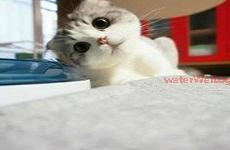
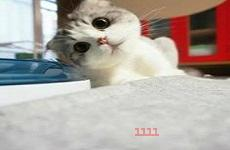
图片水印完成,语言设置（未完成）--pqb

Changed region(s): [[0.7, 0.48, 1.0, 0.5867], [0.5783, 0.8533, 0.7, 0.9067]]

diff --git a/vweibo/src/main/webapp/front/js/jquery.localize.js b/vweibo/src/main/webapp/front/js/jquery.localize.js
@@ -1,0 +1,186 @@
+
+/*
+Copyright (c) Jim Garvin (http://github.com/coderifous), 2008.
+Dual licensed under the GPL (http://dev.jquery.com/browser/trunk/jquery/GPL-LICENSE.txt) and MIT (http://dev.jquery.com/browser/trunk/jquery/MIT-LICENSE.txt) licenses.
+Written by Jim Garvin (@coderifous) for use on LMGTFY.com.
+http://github.com/coderifous/jquery-localize
+Based off of Keith Wood's Localisation jQuery plugin.
+http://keith-wood.name/localisation.html
+ */
+(function($) {
+  var normaliseLang;
+  normaliseLang = function(lang) {
+    lang = lang.replace(/_/, '-').toLowerCase();
+    if (lang.length > 3) {
+      lang = lang.substring(0, 3) + lang.substring(3).toUpperCase();
+    }
+    return lang;
+  };
+  $.defaultLanguage = normaliseLang(navigator.languages ? navigator.languages[0] : navigator.language || navigator.userLanguage);
+  $.localize = function(pkg, options) {
+    var defaultCallback, fileExtension, intermediateLangData, jsonCall, lang, loadLanguage, localizeElement, localizeForSpecialKeys, localizeImageElement, localizeInputElement, localizeOptgroupElement, notifyDelegateLanguageLoaded, regexify, setAttrFromValueForKey, setTextFromValueForKey, valueForKey, wrappedSet;
+    if (options == null) {
+      options = {};
+    }
+    wrappedSet = this;
+    intermediateLangData = {};
+    fileExtension = options.fileExtension || "json";
+    loadLanguage = function(pkg, lang, level) {
+      var file;
+      if (level == null) {
+        level = 1;
+      }
+      switch (level) {
+        case 1:
+          intermediateLangData = {};
+          if (options.loadBase) {
+            file = pkg + ("." + fileExtension);
+            return jsonCall(file, pkg, lang, level);
+          } else {
+            return loadLanguage(pkg, lang, 2);
+          }
+          break;
+        case 2:
+          file = "" + pkg + "-" + (lang.split('-')[0]) + "." + fileExtension;
+          return jsonCall(file, pkg, lang, level);
+        case 3:
+          file = "" + pkg + "-" + (lang.split('-').slice(0, 2).join('-')) + "." + fileExtension;
+          return jsonCall(file, pkg, lang, level);
+      }
+    };
+    jsonCall = function(file, pkg, lang, level) {
+      var ajaxOptions, errorFunc, successFunc;
+      if (options.pathPrefix != null) {
+        file = "" + options.pathPrefix + "/" + file;
+      }
+      successFunc = function(d) {
+        $.extend(intermediateLangData, d);
+        notifyDelegateLanguageLoaded(intermediateLangData);
+        return loadLanguage(pkg, lang, level + 1);
+      };
+      errorFunc = function() {
+        if (options.fallback && options.fallback !== lang) {
+          return loadLanguage(pkg, options.fallback);
+        }
+      };
+      ajaxOptions = {
+        url: file,
+        dataType: "json",
+        async: false,
+        timeout: options.timeout != null ? options.timeout : 500,
+        success: successFunc,
+        error: errorFunc
+      };
+      if (window.location.protocol === "file:") {
+        ajaxOptions.error = function(xhr) {
+          return successFunc($.parseJSON(xhr.responseText));
+        };
+      }
+      return $.ajax(ajaxOptions);
+    };
+    notifyDelegateLanguageLoaded = function(data) {
+      if (options.callback != null) {
+        return options.callback(data, defaultCallback);
+      } else {
+        return defaultCallback(data);
+      }
+    };
+    defaultCallback = function(data) {
+      $.localize.data[pkg] = data;
+      return wrappedSet.each(function() {
+        var elem, key, value;
+        elem = $(this);
+        key = elem.data("localize");
+        key || (key = elem.attr("rel").match(/localize\[(.*?)\]/)[1]);
+        value = valueForKey(key, data);
+        if (value != null) {
+          return localizeElement(elem, key, value);
+        }
+      });
+    };
+    localizeElement = function(elem, key, value) {
+      if (elem.is('input')) {
+        localizeInputElement(elem, key, value);
+      } else if (elem.is('textarea')) {
+        localizeInputElement(elem, key, value);
+      } else if (elem.is('img')) {
+        localizeImageElement(elem, key, value);
+      } else if (elem.is('optgroup')) {
+        localizeOptgroupElement(elem, key, value);
+      } else if (!$.isPlainObject(value)) {
+        elem.html(value);
+      }
+      if ($.isPlainObject(value)) {
+        return localizeForSpecialKeys(elem, value);
+      }
+    };
+    localizeInputElement = function(elem, key, value) {
+      var val;
+      val = $.isPlainObject(value) ? value.value : value;
+      if (elem.is("[placeholder]")) {
+        return elem.attr("placeholder", val);
+      } else {
+        return elem.val(val);
+      }
+    };
+    localizeForSpecialKeys = function(elem, value) {
+      setAttrFromValueForKey(elem, "title", value);
+      setAttrFromValueForKey(elem, "href", value);
+      return setTextFromValueForKey(elem, "text", value);
+    };
+    localizeOptgroupElement = function(elem, key, value) {
+      return elem.attr("label", value);
+    };
+    localizeImageElement = function(elem, key, value) {
+      setAttrFromValueForKey(elem, "alt", value);
+      return setAttrFromValueForKey(elem, "src", value);
+    };
+    valueForKey = function(key, data) {
+      var keys, value, _i, _len;
+      keys = key.split(/\./);
+      value = data;
+      for (_i = 0, _len = keys.length; _i < _len; _i++) {
+        key = keys[_i];
+        value = value != null ? value[key] : null;
+      }
+      return value;
+    };
+    setAttrFromValueForKey = function(elem, key, value) {
+      value = valueForKey(key, value);
+      if (value != null) {
+        return elem.attr(key, value);
+      }
+    };
+    setTextFromValueForKey = function(elem, key, value) {
+      value = valueForKey(key, value);
+      if (value != null) {
+        return elem.text(value);
+      }
+    };
+    regexify = function(string_or_regex_or_array) {
+      var thing;
+      if (typeof string_or_regex_or_array === "string") {
+        return "^" + string_or_regex_or_array + "$";
+      } else if (string_or_regex_or_array.length != null) {
+        return ((function() {
+          var _i, _len, _results;
+          _results = [];
+          for (_i = 0, _len = string_or_regex_or_array.length; _i < _len; _i++) {
+            thing = string_or_regex_or_array[_i];
+            _results.push(regexify(thing));
+          }
+          return _results;
+        })()).join("|");
+      } else {
+        return string_or_regex_or_array;
+      }
+    };
+    lang = normaliseLang(options.language ? options.language : $.defaultLanguage);
+    if (!(options.skipLanguage && lang.match(regexify(options.skipLanguage)))) {
+      loadLanguage(pkg, lang, 1);
+    }
+    return wrappedSet;
+  };
+  $.fn.localize = $.localize;
+  return $.localize.data = {};
+})(jQuery);

diff --git a/vweibo/src/main/java/com/yc/weibo/handler/UserHandler.java b/vweibo/src/main/java/com/yc/weibo/handler/UserHandler.java
@@ -15,8 +15,6 @@ import javax.mail.MessagingException;
 import javax.mail.internet.MimeMessage;
 import javax.servlet.ServletContext;
 import javax.servlet.http.HttpServletRequest;
-import javax.servlet.http.HttpServletResponse;
-
 import org.springframework.beans.factory.annotation.Autowired;
 import org.springframework.mail.javamail.JavaMailSender;
 import org.springframework.mail.javamail.MimeMessageHelper;
@@ -161,7 +159,7 @@ public class UserHandler {
 
 	//上传头像
 	@RequestMapping("/setphoto")
-	public String setPhoto(@RequestParam("photodata") String file,@RequestParam("WBUid")String WBUid,PrintWriter out){
+	public void setPhoto(@RequestParam("photodata") String file,@RequestParam("WBUid")String WBUid,PrintWriter out){
 		BASE64Decoder decoder = new BASE64Decoder();
 		byte[] bytes;
 		try {
@@ -179,7 +177,7 @@ public class UserHandler {
 			FileOutputStream photopath = new FileOutputStream(uploadPicPath+filename);
 			photopath.write(bytes); 
 			Map<String,String> paramMap=new HashMap<>();
-			paramMap.put("UimgPath", uploadPicPath+filename);
+			paramMap.put("UimgPath", filename);
 			paramMap.put("WBUid", WBUid);
 			userService.updataUserPhoto(paramMap);
 			out.println("头像上传成功");
@@ -191,8 +189,6 @@ public class UserHandler {
 			out.flush();
 			out.close();
 		}
-
-		return null;
 	}
 
 
@@ -281,48 +277,44 @@ public class UserHandler {
 	//图片水印
 	@ResponseBody
 	@RequestMapping(value="/addWaterMark")
-	public void addWaterMark(String waterContent,String waterLocation,String WBUid,PrintWriter out,HttpServletResponse response){
+	public void addWaterMark(String waterContent,String waterLocation,String WBUid,PrintWriter out){
 		System.out.println(waterContent+"---"+waterLocation+"----"+WBUid);
-		response.setHeader("Cache-Control", "no-cache");
-		File file=new File("G:\\GitWork\\WeiBo\\weiboRepository\\vweibo\\src\\main\\webapp\\front\\image\\UserSet_image\\test_pic.jpg");
+		String rootDir = DataDic.PICPATH;
+		String waterMarkPicPath = servletContext.getRealPath(rootDir).
+				substring(0, servletContext.getRealPath(rootDir).lastIndexOf(DataDic.PROJECTNAME)-1)+rootDir; 
+		File file=new File(waterMarkPicPath+"test_pic.jpg");
 		String txt=waterContent;
-		String realPath="G:\\GitWork\\WeiBo\\weiboRepository\\vweibo\\src\\main\\webapp\\front\\image\\UserSet_image\\test_pic1.jpg";
+		String realPath=waterMarkPicPath+"test_pic1.jpg";
 		double x,y;
 		if(waterContent!=null || waterContent!=""){
 			if(!waterContent.contains("Logo")){//文字水印
 				if(waterLocation.equals("bottomRight")){//底部居右
 					x=1.7;
 					y=1.1;
-					ImageMarkLogoByIcon.pressText(file, txt, realPath, x, y);
 				}else if(waterLocation.equals("centerCenter")){//图片中心
 					x=2.8;
 					y=2.0;
-					ImageMarkLogoByIcon.pressText(file, txt, realPath, x, y);
 				}else{//底部居中
 					x=2.8;
 					y=1.1;
-					ImageMarkLogoByIcon.pressText(file, txt, realPath, x, y);
 				}
+				ImageMarkLogoByIcon.pressText(file, txt, realPath, x, y);
 				System.out.println("------------转换成功");
 			}else{//logo水印
-				String iconPath="G:\\GitWork\\WeiBo\\weiboRepository\\vweibo\\src\\main\\webapp\\front\\image\\head_logo_sh_mini.png";
+				String iconPath=waterMarkPicPath+"head_logo_sh_mini.png";
 				if(waterLocation.equals("bottomRight")){//底部居右
-					x=1.4;
-					y=1.8;
-					ImageMarkLogoByIcon.markImageByIcon(iconPath, file.toString(), realPath, x, y);
+					x=1.3;
+					y=1.4;
 				}else if(waterLocation.equals("centerCenter")){//图片中心
-					x=2.8;
-					y=2.0;
-					ImageMarkLogoByIcon.markImageByIcon(iconPath, file.toString(), realPath, x, y);
+					x=2.2;
+					y=3.7;
 				}else{//底部居中
-					x=2.8;
-					y=1.1;
-					ImageMarkLogoByIcon.markImageByIcon(iconPath, file.toString(), realPath, x, y);
+					x=2.2;
+					y=1.4;
 				}
-				
+				ImageMarkLogoByIcon.markImageByIcon(iconPath, waterMarkPicPath+"test_pic.jpg", realPath, x, y);
 				System.out.println("------------转换成功");
 			}
-			ImageMarkLogoByIcon.pressText(file, txt, realPath, x, y);
 			out.println("设置成功");
 			
 		}

diff --git a/vweibo/src/main/java/com/yc/weibo/util/ImageMarkLogoByIcon.java b/vweibo/src/main/java/com/yc/weibo/util/ImageMarkLogoByIcon.java
@@ -33,7 +33,7 @@ public class ImageMarkLogoByIcon {
      * @param degree 水印图片旋转角度  
      */  
     public static boolean markImageByIcon(String iconPath, String srcImgPath,String targerPath,double x,double y) {   
-        OutputStream os = null;   
+    	OutputStream os = null;   
         try { 
             Image srcImg = ImageIO.read(new File(srcImgPath));  
             BufferedImage buffImg = new BufferedImage(srcImg.getWidth(null),   
@@ -64,7 +64,7 @@ public class ImageMarkLogoByIcon {
             Image img = imgIcon.getImage();
             
   
-            float alpha = 0.2f; // 透明度
+            float alpha = 0.4f; // 透明度
             g.setComposite(AlphaComposite.getInstance(AlphaComposite.SRC_ATOP, alpha));   
   
             // 表示水印图片的位置              
@@ -104,7 +104,8 @@ public class ImageMarkLogoByIcon {
      * @param 添加水印后存储的路径
      */
     public   static   boolean  pressText(File pic,String txt,String realPath,double x,double y) {  
-    	   FileOutputStream fos=null;
+    	System.out.println("文字水印");   
+    	FileOutputStream fos=null;
        	try  {  
            	Image image=ImageIO.read(pic);//读取要添加水印的图片
            	
@@ -124,8 +125,8 @@ public class ImageMarkLogoByIcon {
                  
                
                //4.添加水印
-               g.setColor(Color.RED);  
-               g.setFont(new  Font("微软雅黑",Font.BOLD,10));  
+               g.setColor(Color.BLUE);  
+               g.setFont(new  Font("微软雅黑",Font.BOLD,15));  
                
                g.setComposite(AlphaComposite.getInstance(AlphaComposite.SRC_ATOP,0.3f));
                
